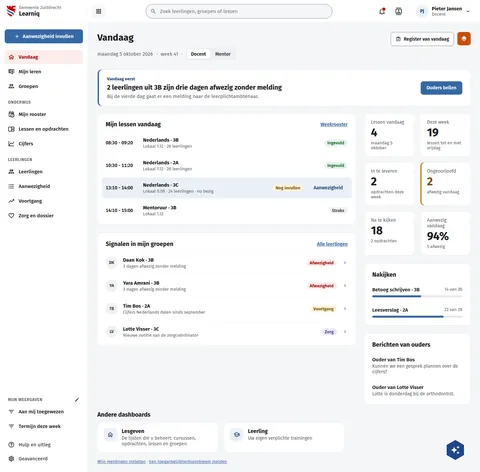
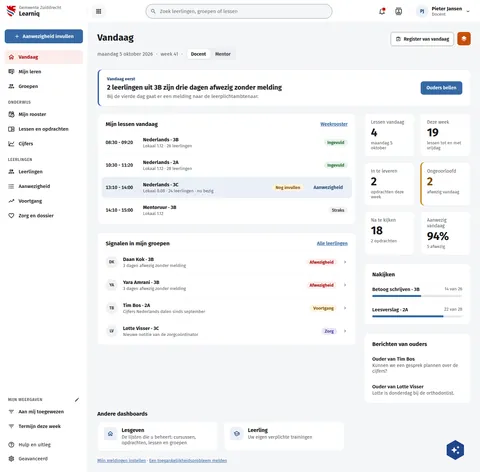
fix(screens): LqDashboard card titles 18px to 17px
Assisted-by: ClaudeCode:claude-sonnet-5-5

diff --git a/preview/screens/boards/LqDashboard.html b/preview/screens/boards/LqDashboard.html
@@ -171,7 +171,7 @@ a{color:var(--sc-primary, #3669a5)}a:hover{color:var(--sc-primary-deep, #234a78)
         <div style="display: flex; flex-wrap: wrap; gap: 24px; align-items: flex-start">
           <div style="flex: 999 1 520px; min-width: 0; display: flex; flex-direction: column; gap: 24px">
             <section aria-labelledby="lq-lessen" style="background: #ffffff; border: 1px solid var(--sc-work-line, #e4e6ea); border-radius: 12px; padding: 22px 24px 10px; display: flex; flex-direction: column; gap: 4px">
-              <div style="display: flex; justify-content: space-between; align-items: center; margin-bottom: 8px"><h2 id="lq-lessen" style="margin: 0; font-size: 18px; font-weight: 700">Mijn lessen vandaag</h2><a href="#" style="font-size: 14px; font-weight: 600">Weekrooster</a></div>
+              <div style="display: flex; justify-content: space-between; align-items: center; margin-bottom: 8px"><h2 id="lq-lessen" style="margin: 0; font-size: 17px; font-weight: 700">Mijn lessen vandaag</h2><a href="#" style="font-size: 14px; font-weight: 600">Weekrooster</a></div>
               
                 <div style="display: flex; flex-wrap: wrap; align-items: center; gap: 8px 16px; padding: 14px 0; border-top: 1px solid var(--sc-work-soft, #eef0f3)">
                   <span style="flex: 0 0 96px; font-size: 14px; font-weight: 600; font-variant-numeric: tabular-nums">08:30 - 09:20</span>
@@ -204,7 +204,7 @@ a{color:var(--sc-primary, #3669a5)}a:hover{color:var(--sc-primary-deep, #234a78)
             </section>
 
             <section aria-labelledby="lq-signalen" style="background: #ffffff; border: 1px solid var(--sc-work-line, #e4e6ea); border-radius: 12px; padding: 22px 24px 10px; display: flex; flex-direction: column; gap: 4px">
-              <div style="display: flex; justify-content: space-between; align-items: center; margin-bottom: 8px"><h2 id="lq-signalen" style="margin: 0; font-size: 18px; font-weight: 700">Signalen in mijn groepen</h2><a href="#" style="font-size: 14px; font-weight: 600">Alle leerlingen</a></div>
+              <div style="display: flex; justify-content: space-between; align-items: center; margin-bottom: 8px"><h2 id="lq-signalen" style="margin: 0; font-size: 17px; font-weight: 700">Signalen in mijn groepen</h2><a href="#" style="font-size: 14px; font-weight: 600">Alle leerlingen</a></div>
               
                 <a href="#" style="display: flex; flex-wrap: wrap; align-items: center; gap: 8px 16px; padding: 14px 0; border-top: 1px solid var(--sc-work-soft, #eef0f3); color: var(--sc-work-ink, #1b1c1d); text-decoration: none">
                   <span style="width: 36px; height: 36px; flex: none; border-radius: 18px; background: var(--sc-work-chip, #f0f1f3); color: var(--sc-work-text, #3d4047); font-size: 12px; font-weight: 700; display: flex; align-items: center; justify-content: center">DK</span>
@@ -247,7 +247,7 @@ a{color:var(--sc-primary, #3669a5)}a:hover{color:var(--sc-primary-deep, #234a78)
               <div style="background: #ffffff; border: 1px solid var(--sc-work-line, #e4e6ea); border-radius: 12px; padding: 18px 20px; display: flex; flex-direction: column; gap: 6px"><span style="font-size: 14px; color: var(--sc-work-muted, #5e6168)">Aanwezig vandaag</span><strong style="font-size: 34px; font-weight: 700; line-height: 1">94%</strong><span style="font-size: 13px; color: var(--sc-work-muted, #5e6168)">5 afwezig</span></div>
             </div>
             <section aria-labelledby="lq-nakijk" style="background: #ffffff; border: 1px solid var(--sc-work-line, #e4e6ea); border-radius: 12px; padding: 22px 24px 10px; display: flex; flex-direction: column; gap: 4px">
-              <h2 id="lq-nakijk" style="margin: 0 0 8px; font-size: 18px; font-weight: 700">Nakijken</h2>
+              <h2 id="lq-nakijk" style="margin: 0 0 8px; font-size: 17px; font-weight: 700">Nakijken</h2>
               
                 <a href="#" style="display: flex; flex-direction: column; gap: 8px; padding: 12px 0; border-top: 1px solid var(--sc-work-soft, #eef0f3); color: var(--sc-work-ink, #1b1c1d); text-decoration: none">
                   <span style="display: flex; justify-content: space-between; gap: 8px"><span style="font-size: 15px; font-weight: 600">Betoog schrijven · 3B</span><span style="font-size: 13px; color: var(--sc-work-muted, #5e6168)">14 van 26</span></span>
@@ -261,7 +261,7 @@ a{color:var(--sc-primary, #3669a5)}a:hover{color:var(--sc-primary-deep, #234a78)
               
             </section>
             <section aria-labelledby="lq-ouders" style="background: #ffffff; border: 1px solid var(--sc-work-line, #e4e6ea); border-radius: 12px; padding: 22px 24px 10px; display: flex; flex-direction: column; gap: 4px">
-              <h2 id="lq-ouders" style="margin: 0 0 8px; font-size: 18px; font-weight: 700">Berichten van ouders</h2>
+              <h2 id="lq-ouders" style="margin: 0 0 8px; font-size: 17px; font-weight: 700">Berichten van ouders</h2>
               
                 <a href="#" style="display: flex; flex-direction: column; gap: 2px; padding: 12px 0; border-top: 1px solid var(--sc-work-soft, #eef0f3); color: var(--sc-work-ink, #1b1c1d); text-decoration: none"><span style="font-size: 15px; font-weight: 600">Ouder van Tim Bos</span><span style="font-size: 14px; color: var(--sc-work-muted, #5e6168)">Kunnen we een gesprek plannen over de cijfers?</span></a>
               
@@ -272,7 +272,7 @@ a{color:var(--sc-primary, #3669a5)}a:hover{color:var(--sc-primary-deep, #234a78)
         </div>
 
         <section aria-labelledby="lq-andere" style="display: flex; flex-direction: column; gap: 12px">
-          <h2 id="lq-andere" style="margin: 0; font-size: 18px; font-weight: 700">Andere dashboards</h2>
+          <h2 id="lq-andere" style="margin: 0; font-size: 17px; font-weight: 700">Andere dashboards</h2>
           <div style="display: grid; grid-template-columns: repeat(auto-fill, minmax(280px, 1fr)); gap: 16px">
             <a href="#" style="display: flex; gap: 14px; align-items: flex-start; padding: 16px 18px; border: 1px solid var(--sc-work-line, #e4e6ea); border-radius: 12px; background: #ffffff; color: var(--sc-work-ink, #1b1c1d); text-decoration: none"><span aria-hidden="true" style="flex: none; width: 40px; height: 40px; border-radius: 10px; background: var(--sc-primary-light, #eaf0f7); color: var(--sc-primary-deep, #234a78); display: flex; align-items: center; justify-content: center"><svg width="20" height="20" viewbox="0 0 24 24" fill="currentColor"><path d="M12 5.69L17 10.19V18H15V12H9V18H7V10.19L12 5.69M12 3L2 12H5V20H11V14H13V20H19V12H22"></path></svg></span><span style="display: flex; flex-direction: column; gap: 3px"><strong style="font-size: 16px">Lesgeven</strong><span style="font-size: 14px; color: var(--sc-work-muted, #5e6168)">De lijsten die u beheert: cursussen, opdrachten, lessen en groepen</span></span></a>
             <a href="#" style="display: flex; gap: 14px; align-items: flex-start; padding: 16px 18px; border: 1px solid var(--sc-work-line, #e4e6ea); border-radius: 12px; background: #ffffff; color: var(--sc-work-ink, #1b1c1d); text-decoration: none"><span aria-hidden="true" style="flex: none; width: 40px; height: 40px; border-radius: 10px; background: var(--sc-primary-light, #eaf0f7); color: var(--sc-primary-deep, #234a78); display: flex; align-items: center; justify-content: center"><svg width="20" height="20" viewbox="0 0 24 24" fill="currentColor"><path d="M12 3L1 9L5 11.18V17.18L12 21L19 17.18V11.18L21 10.09V17H23V9L12 3M18.82 9L12 12.72L5.18 9L12 5.28L18.82 9M17 16L12 18.72L7 16V12.27L12 15L17 12.27V16Z"></path></svg></span><span style="display: flex; flex-direction: column; gap: 3px"><strong style="font-size: 16px">Leerling</strong><span style="font-size: 14px; color: var(--sc-work-muted, #5e6168)">Uw eigen verplichte trainingen</span></span></a>

diff --git a/screens-src/zuiddrecht/LqDashboard.dc.html b/screens-src/zuiddrecht/LqDashboard.dc.html
@@ -40,7 +40,7 @@ a{color:#3669a5}a:hover{color:#234a78}
         <div style="display: flex; flex-wrap: wrap; gap: 24px; align-items: flex-start">
           <div style="flex: 999 1 520px; min-width: 0; display: flex; flex-direction: column; gap: 24px">
             <section aria-labelledby="lq-lessen" style="background: #ffffff; border: 1px solid #e4e6ea; border-radius: 12px; padding: 22px 24px 10px; display: flex; flex-direction: column; gap: 4px">
-              <div style="display: flex; justify-content: space-between; align-items: center; margin-bottom: 8px"><h2 id="lq-lessen" style="margin: 0; font-size: 18px; font-weight: 700">Mijn lessen vandaag</h2><a href="#" style="font-size: 14px; font-weight: 600">Weekrooster</a></div>
+              <div style="display: flex; justify-content: space-between; align-items: center; margin-bottom: 8px"><h2 id="lq-lessen" style="margin: 0; font-size: 17px; font-weight: 700">Mijn lessen vandaag</h2><a href="#" style="font-size: 14px; font-weight: 600">Weekrooster</a></div>
               <sc-for list="{{ lessons }}" as="l" hint-placeholder-count="4">
                 <div style="{{ l.row }}">
                   <span style="flex: 0 0 96px; font-size: 14px; font-weight: 600; font-variant-numeric: tabular-nums">{{ l.time }}</span>
@@ -52,7 +52,7 @@ a{color:#3669a5}a:hover{color:#234a78}
             </section>
 
             <section aria-labelledby="lq-signalen" style="background: #ffffff; border: 1px solid #e4e6ea; border-radius: 12px; padding: 22px 24px 10px; display: flex; flex-direction: column; gap: 4px">
-              <div style="display: flex; justify-content: space-between; align-items: center; margin-bottom: 8px"><h2 id="lq-signalen" style="margin: 0; font-size: 18px; font-weight: 700">Signalen in mijn groepen</h2><a href="#" style="font-size: 14px; font-weight: 600">Alle leerlingen</a></div>
+              <div style="display: flex; justify-content: space-between; align-items: center; margin-bottom: 8px"><h2 id="lq-signalen" style="margin: 0; font-size: 17px; font-weight: 700">Signalen in mijn groepen</h2><a href="#" style="font-size: 14px; font-weight: 600">Alle leerlingen</a></div>
               <sc-for list="{{ signals }}" as="s" hint-placeholder-count="4">
                 <a href="#" style="display: flex; flex-wrap: wrap; align-items: center; gap: 8px 16px; padding: 14px 0; border-top: 1px solid #eef0f3; color: #1b1c1d; text-decoration: none">
                   <span style="width: 36px; height: 36px; flex: none; border-radius: 18px; background: #f0f1f3; color: #3d4047; font-size: 12px; font-weight: 700; display: flex; align-items: center; justify-content: center">{{ s.initials }}</span>
@@ -74,7 +74,7 @@ a{color:#3669a5}a:hover{color:#234a78}
               <div style="background: #ffffff; border: 1px solid #e4e6ea; border-radius: 12px; padding: 18px 20px; display: flex; flex-direction: column; gap: 6px"><span style="font-size: 14px; color: #5e6168">Aanwezig vandaag</span><strong style="font-size: 34px; font-weight: 700; line-height: 1">94%</strong><span style="font-size: 13px; color: #5e6168">5 afwezig</span></div>
             </div>
             <section aria-labelledby="lq-nakijk" style="background: #ffffff; border: 1px solid #e4e6ea; border-radius: 12px; padding: 22px 24px 10px; display: flex; flex-direction: column; gap: 4px">
-              <h2 id="lq-nakijk" style="margin: 0 0 8px; font-size: 18px; font-weight: 700">Nakijken</h2>
+              <h2 id="lq-nakijk" style="margin: 0 0 8px; font-size: 17px; font-weight: 700">Nakijken</h2>
               <sc-for list="{{ review }}" as="r" hint-placeholder-count="2">
                 <a href="#" style="display: flex; flex-direction: column; gap: 8px; padding: 12px 0; border-top: 1px solid #eef0f3; color: #1b1c1d; text-decoration: none">
                   <span style="display: flex; justify-content: space-between; gap: 8px"><span style="font-size: 15px; font-weight: 600">{{ r.title }}</span><span style="font-size: 13px; color: #5e6168">{{ r.done }}</span></span>
@@ -83,7 +83,7 @@ a{color:#3669a5}a:hover{color:#234a78}
               </sc-for>
             </section>
             <section aria-labelledby="lq-ouders" style="background: #ffffff; border: 1px solid #e4e6ea; border-radius: 12px; padding: 22px 24px 10px; display: flex; flex-direction: column; gap: 4px">
-              <h2 id="lq-ouders" style="margin: 0 0 8px; font-size: 18px; font-weight: 700">Berichten van ouders</h2>
+              <h2 id="lq-ouders" style="margin: 0 0 8px; font-size: 17px; font-weight: 700">Berichten van ouders</h2>
               <sc-for list="{{ parents }}" as="p" hint-placeholder-count="2">
                 <a href="#" style="display: flex; flex-direction: column; gap: 2px; padding: 12px 0; border-top: 1px solid #eef0f3; color: #1b1c1d; text-decoration: none"><span style="font-size: 15px; font-weight: 600">{{ p.who }}</span><span style="font-size: 14px; color: #5e6168">{{ p.text }}</span></a>
               </sc-for>
@@ -92,7 +92,7 @@ a{color:#3669a5}a:hover{color:#234a78}
         </div>
 
         <section aria-labelledby="lq-andere" style="display: flex; flex-direction: column; gap: 12px">
-          <h2 id="lq-andere" style="margin: 0; font-size: 18px; font-weight: 700">Andere dashboards</h2>
+          <h2 id="lq-andere" style="margin: 0; font-size: 17px; font-weight: 700">Andere dashboards</h2>
           <div style="display: grid; grid-template-columns: repeat(auto-fill, minmax(280px, 1fr)); gap: 16px">
             <a href="#" style="display: flex; gap: 14px; align-items: flex-start; padding: 16px 18px; border: 1px solid #e4e6ea; border-radius: 12px; background: #ffffff; color: #1b1c1d; text-decoration: none"><span aria-hidden="true" style="flex: none; width: 40px; height: 40px; border-radius: 10px; background: #eaf0f7; color: #234a78; display: flex; align-items: center; justify-content: center"><svg width="20" height="20" viewBox="0 0 24 24" fill="currentColor"><path d="M12 5.69L17 10.19V18H15V12H9V18H7V10.19L12 5.69M12 3L2 12H5V20H11V14H13V20H19V12H22"></path></svg></span><span style="display: flex; flex-direction: column; gap: 3px"><strong style="font-size: 16px">Lesgeven</strong><span style="font-size: 14px; color: #5e6168">De lijsten die u beheert: cursussen, opdrachten, lessen en groepen</span></span></a>
             <a href="#" style="display: flex; gap: 14px; align-items: flex-start; padding: 16px 18px; border: 1px solid #e4e6ea; border-radius: 12px; background: #ffffff; color: #1b1c1d; text-decoration: none"><span aria-hidden="true" style="flex: none; width: 40px; height: 40px; border-radius: 10px; background: #eaf0f7; color: #234a78; display: flex; align-items: center; justify-content: center"><svg width="20" height="20" viewBox="0 0 24 24" fill="currentColor"><path d="M12 3L1 9L5 11.18V17.18L12 21L19 17.18V11.18L21 10.09V17H23V9L12 3M18.82 9L12 12.72L5.18 9L12 5.28L18.82 9M17 16L12 18.72L7 16V12.27L12 15L17 12.27V16Z"></path></svg></span><span style="display: flex; flex-direction: column; gap: 3px"><strong style="font-size: 16px">Leerling</strong><span style="font-size: 14px; color: #5e6168">Uw eigen verplichte trainingen</span></span></a>
